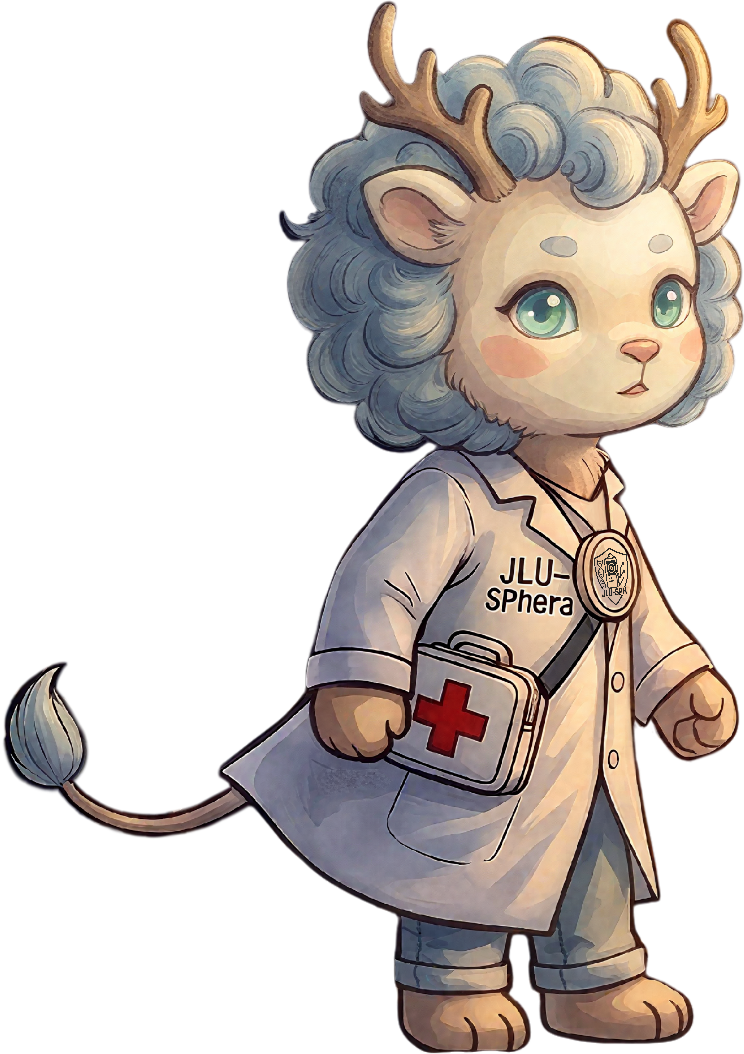
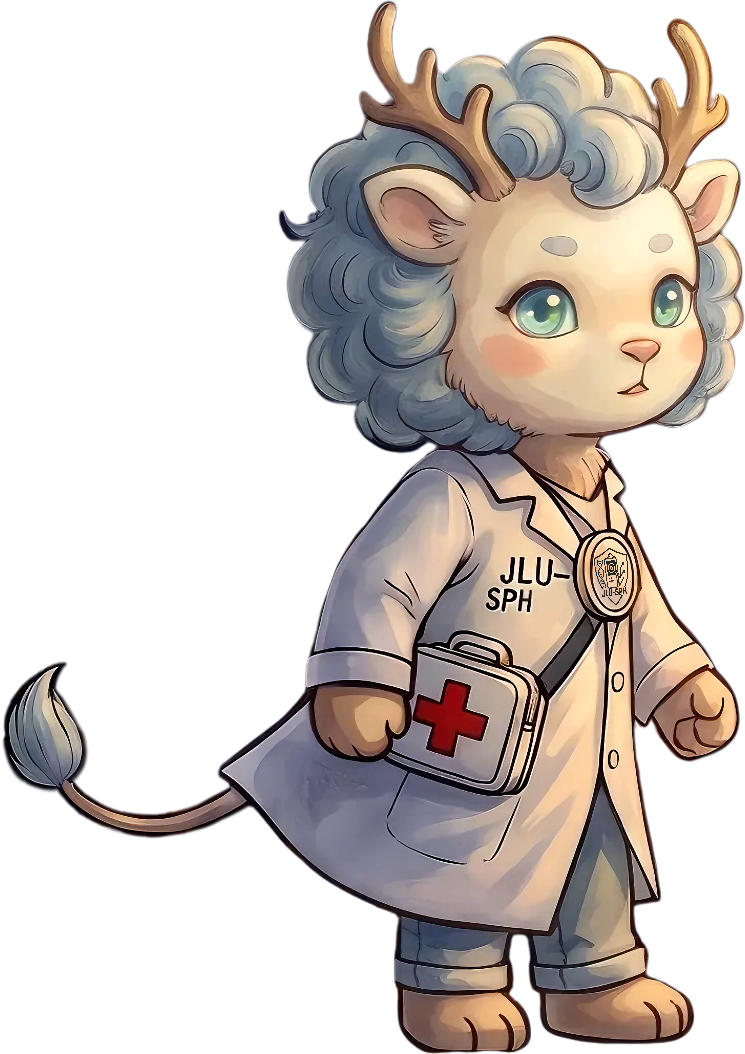
Replace home mascot image

diff --git a/homepage/index.html b/homepage/index.html
@@ -139,7 +139,7 @@
             <img class="detector-door-frame detector-door-closed" src="../a  图片/home-story/detector-entrance/door-closed.webp" width="2752" height="1536" loading="lazy" decoding="async" alt="" />
             <img class="detector-door-frame detector-door-open" src="../a  图片/home-story/detector-entrance/door-open.webp" width="2752" height="1536" loading="lazy" decoding="async" alt="" />
             <img class="detector-character detector-character-walking" src="../a  图片/home-story/detector-entrance/character-walking.png" width="744" height="1036" loading="lazy" decoding="async" alt="" />
-            <img class="detector-character detector-character-standing" src="../a  图片/home-story/detector-entrance/character-standing.png" width="744" height="1054" loading="lazy" decoding="async" alt="" />
+            <img class="detector-character detector-character-standing" src="../a  图片/home-story/detector-entrance/character-standing.png" width="745" height="1054" loading="lazy" decoding="async" alt="" />
           </div>
 
           <div class="detector-blackout" aria-hidden="true"></div>
